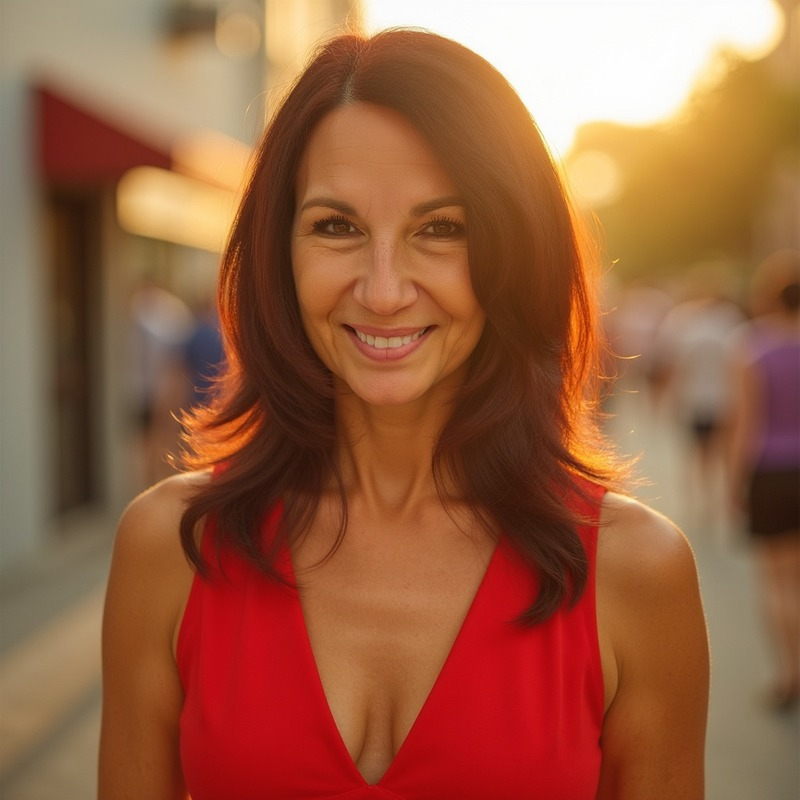
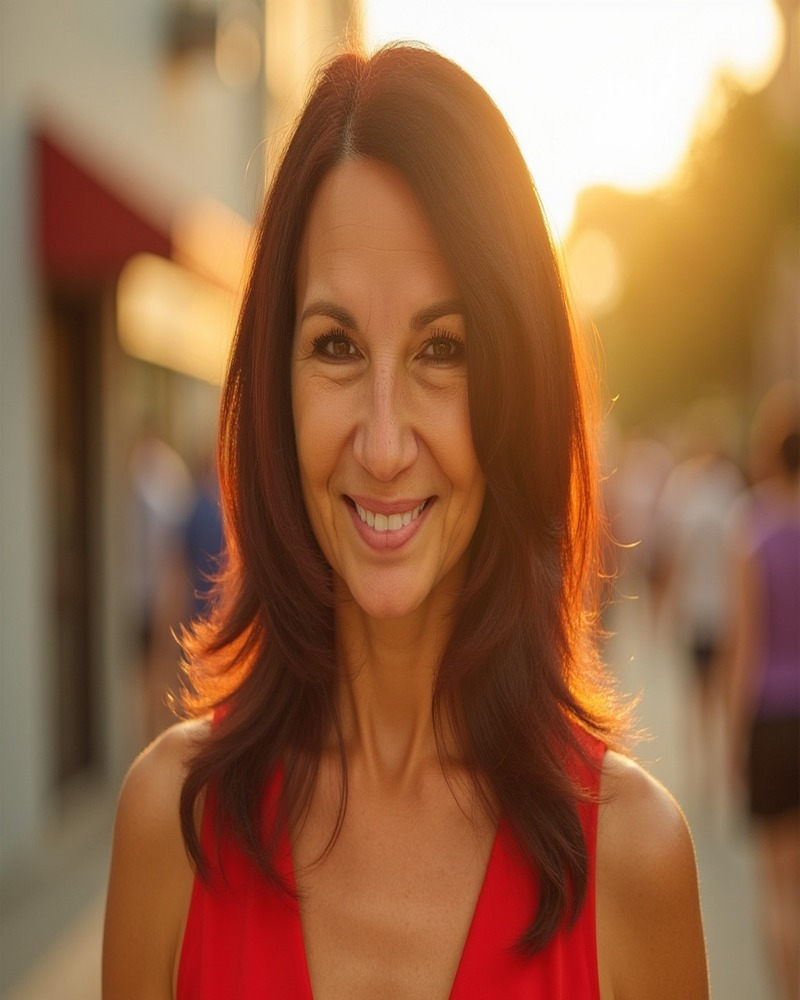
updated image

diff --git a/index.html b/index.html
@@ -83,7 +83,7 @@
                 border:6px solid var(--card);
               ">
                 <img
-                  src="images/renee-about.jpg"
+                  src="images/headshot.jpg"
                   alt="Renée Bulwin, founder of Bleed Into Purpose"
                   width="800"
                   height="800"